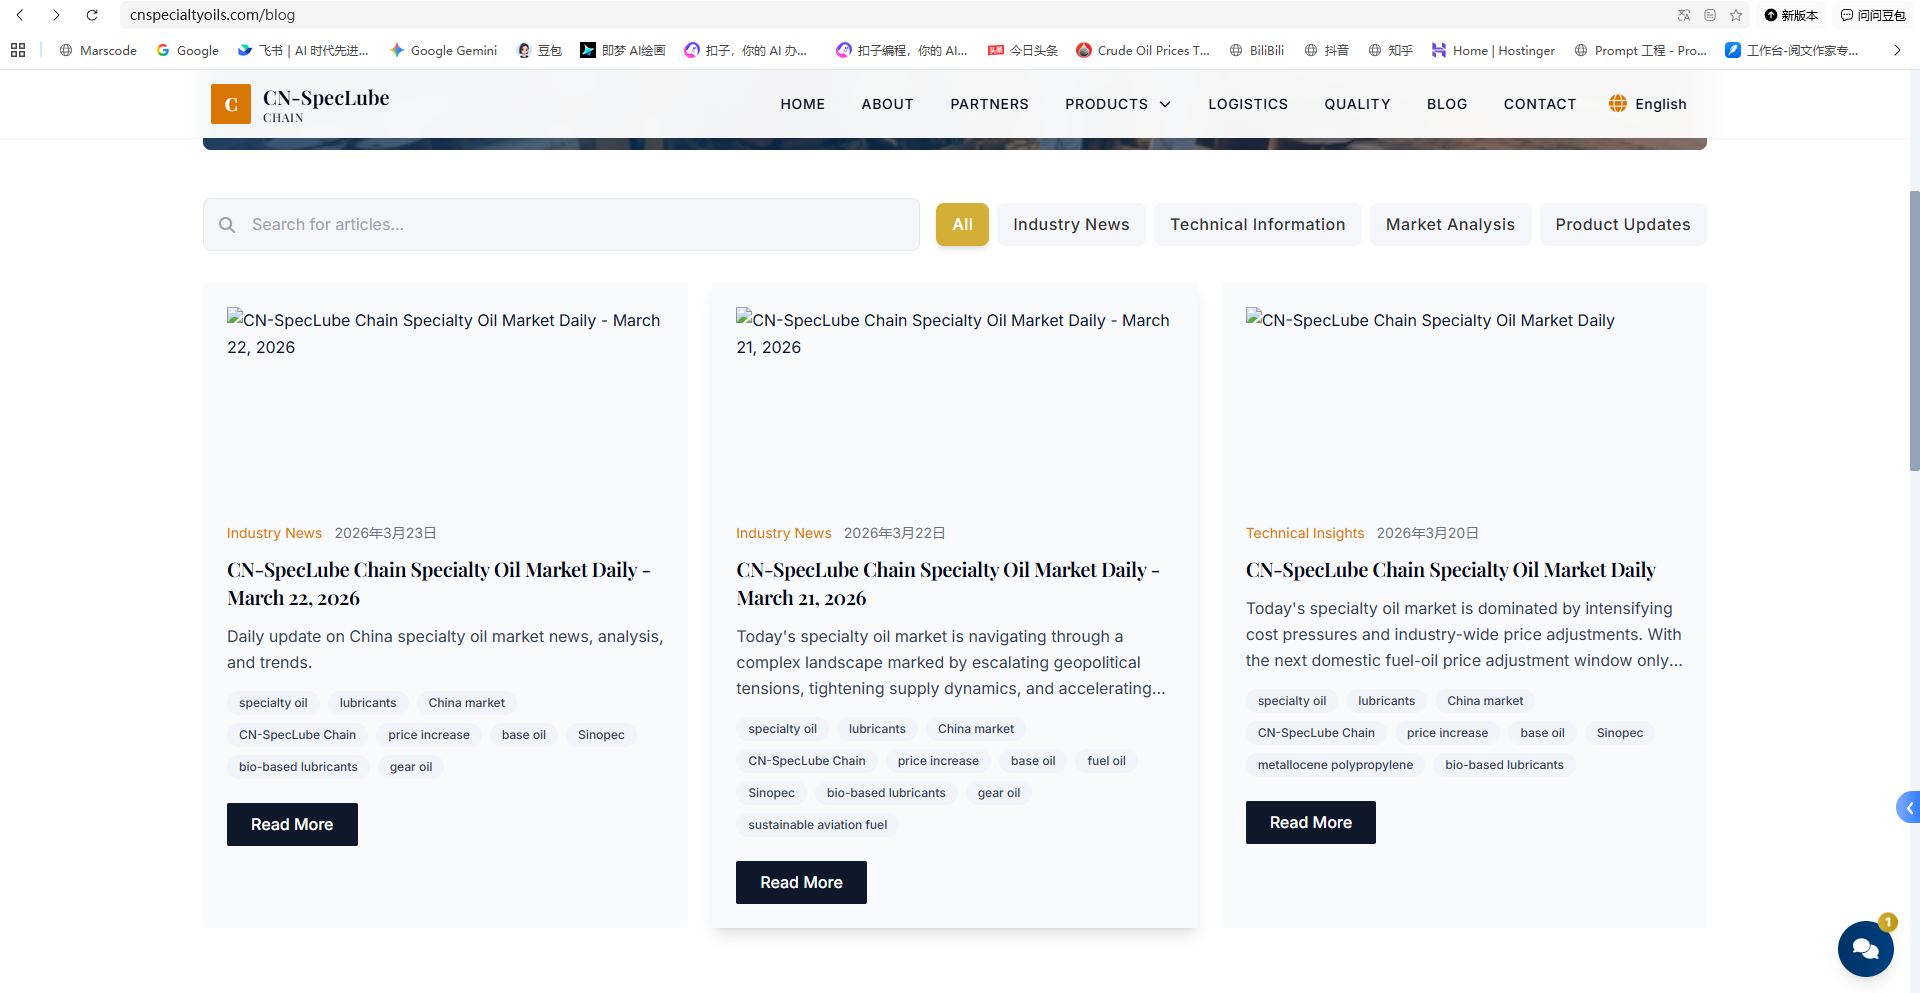
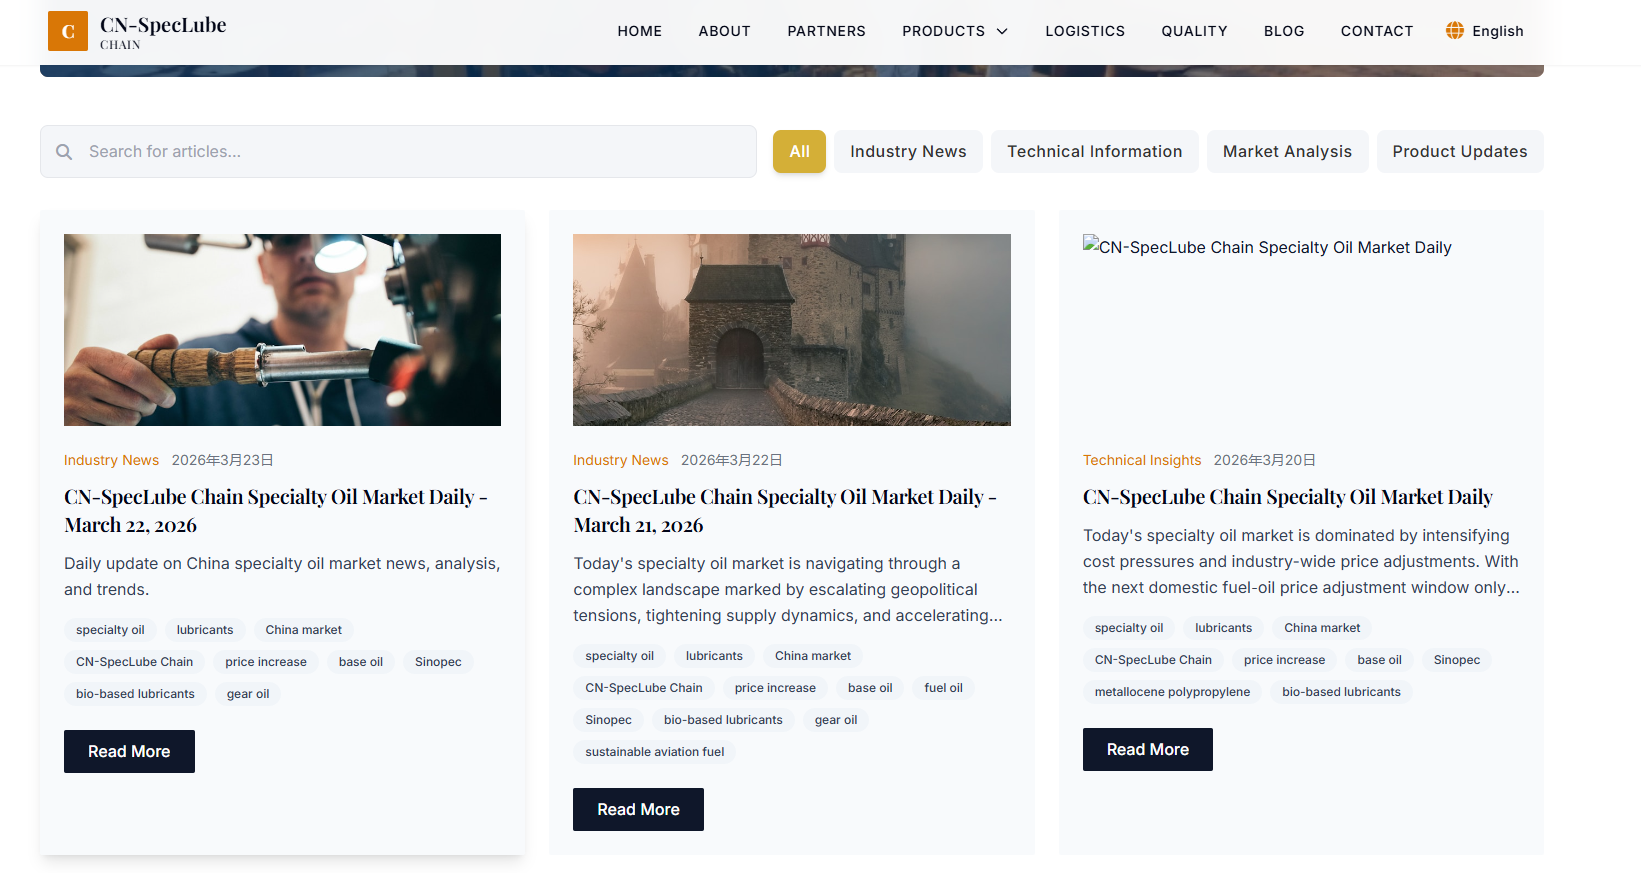
feat: 保存文件变更

diff --git a/scripts/check-covers.ts b/scripts/check-covers.ts
@@ -1,0 +1,27 @@
+import { createClient } from '@supabase/supabase-js';
+
+const client = createClient(
+  'https://hcjytmlavmcyzclqkzrj.supabase.co',
+  'eyJhbGciOiJIUzI1NiIsInR5cCI6IkpXVCJ9.eyJpc3MiOiJzdXBhYmFzZSIsInJlZiI6Imhjanl0bWxhdm1jeXpjbHFrenJqIiwicm9sZSI6ImFub24iLCJpYXQiOjE3NzMwMzg2MTIsImV4cCI6MjA4ODYxNDYxMn0.6-uMZlj0yPscOxgIzL-vLN3wwiwktaUeqj2G7u-mDeM'
+);
+
+async function check() {
+  const { data, error } = await client
+    .from('blog_posts')
+    .select('id, title, featured_image')
+    .order('created_at', { ascending: false })
+    .limit(5);
+  
+  if (error) {
+    console.error('Error:', error);
+    return;
+  }
+  
+  console.log(`Found ${data?.length || 0} articles:\n`);
+  data?.forEach((a, i) => {
+    console.log(`${i + 1}. ${a.title.substring(0, 50)}...`);
+    console.log(`   Cover: ${a.featured_image || 'NO IMAGE'}\n`);
+  });
+}
+
+check();
